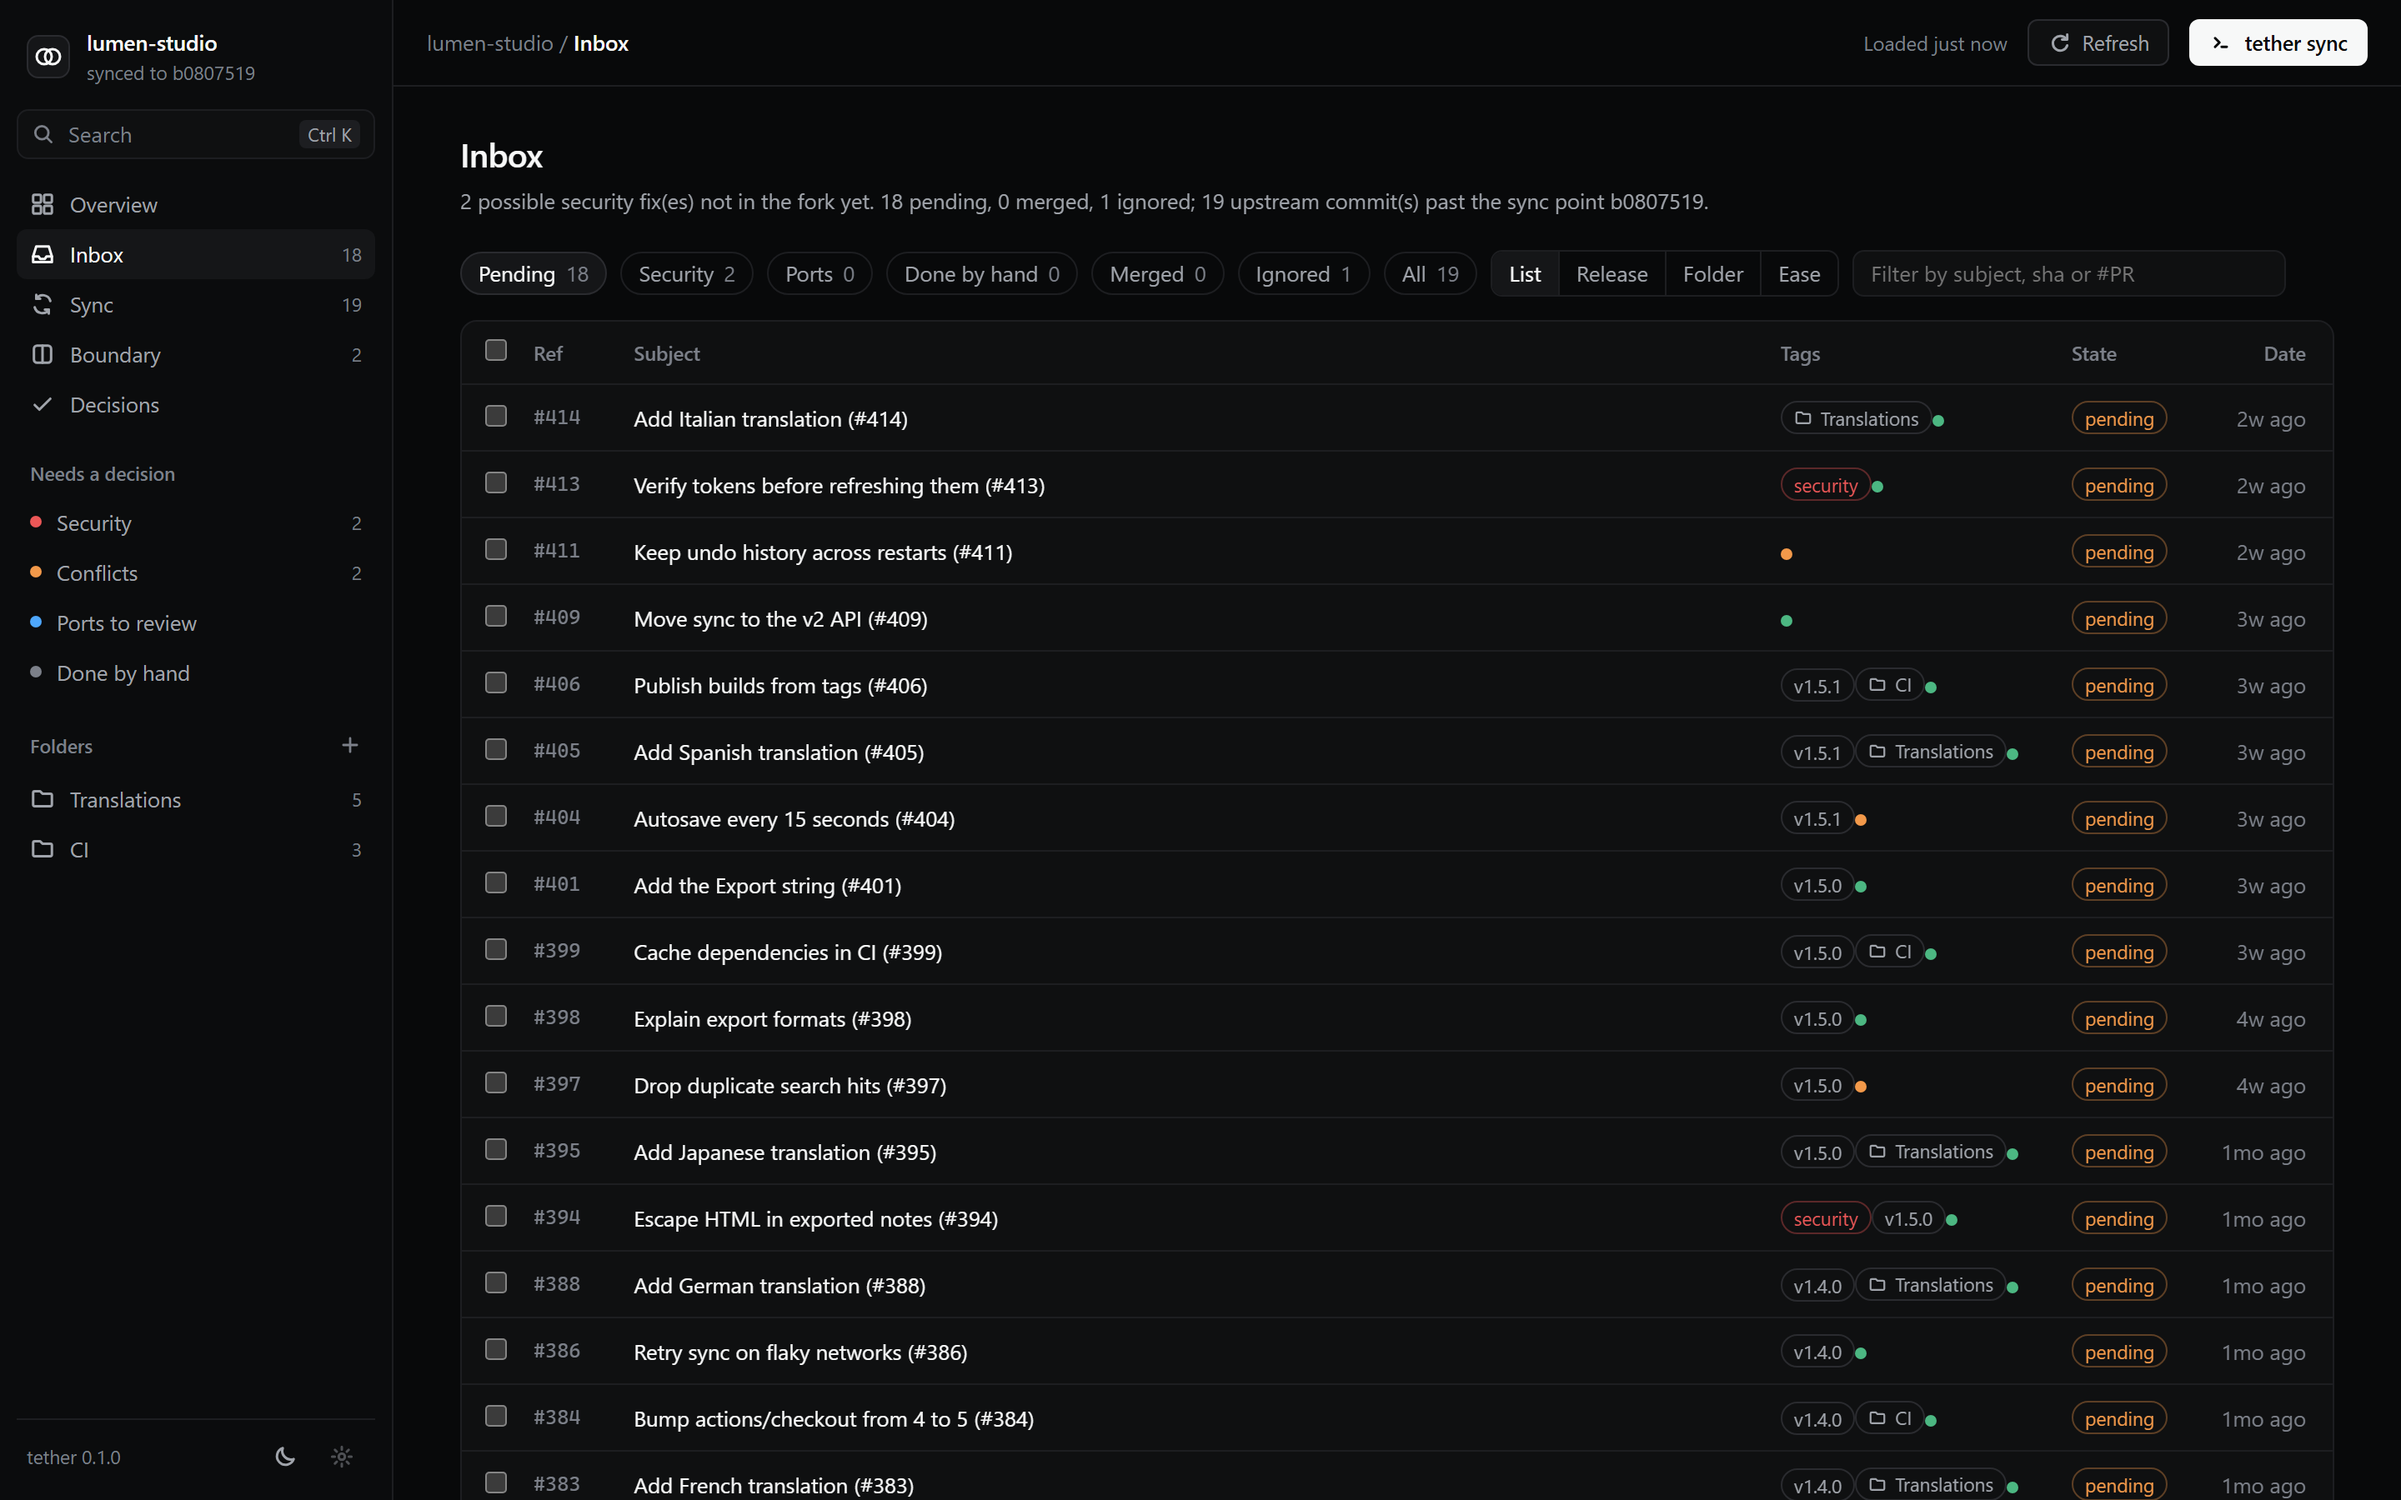
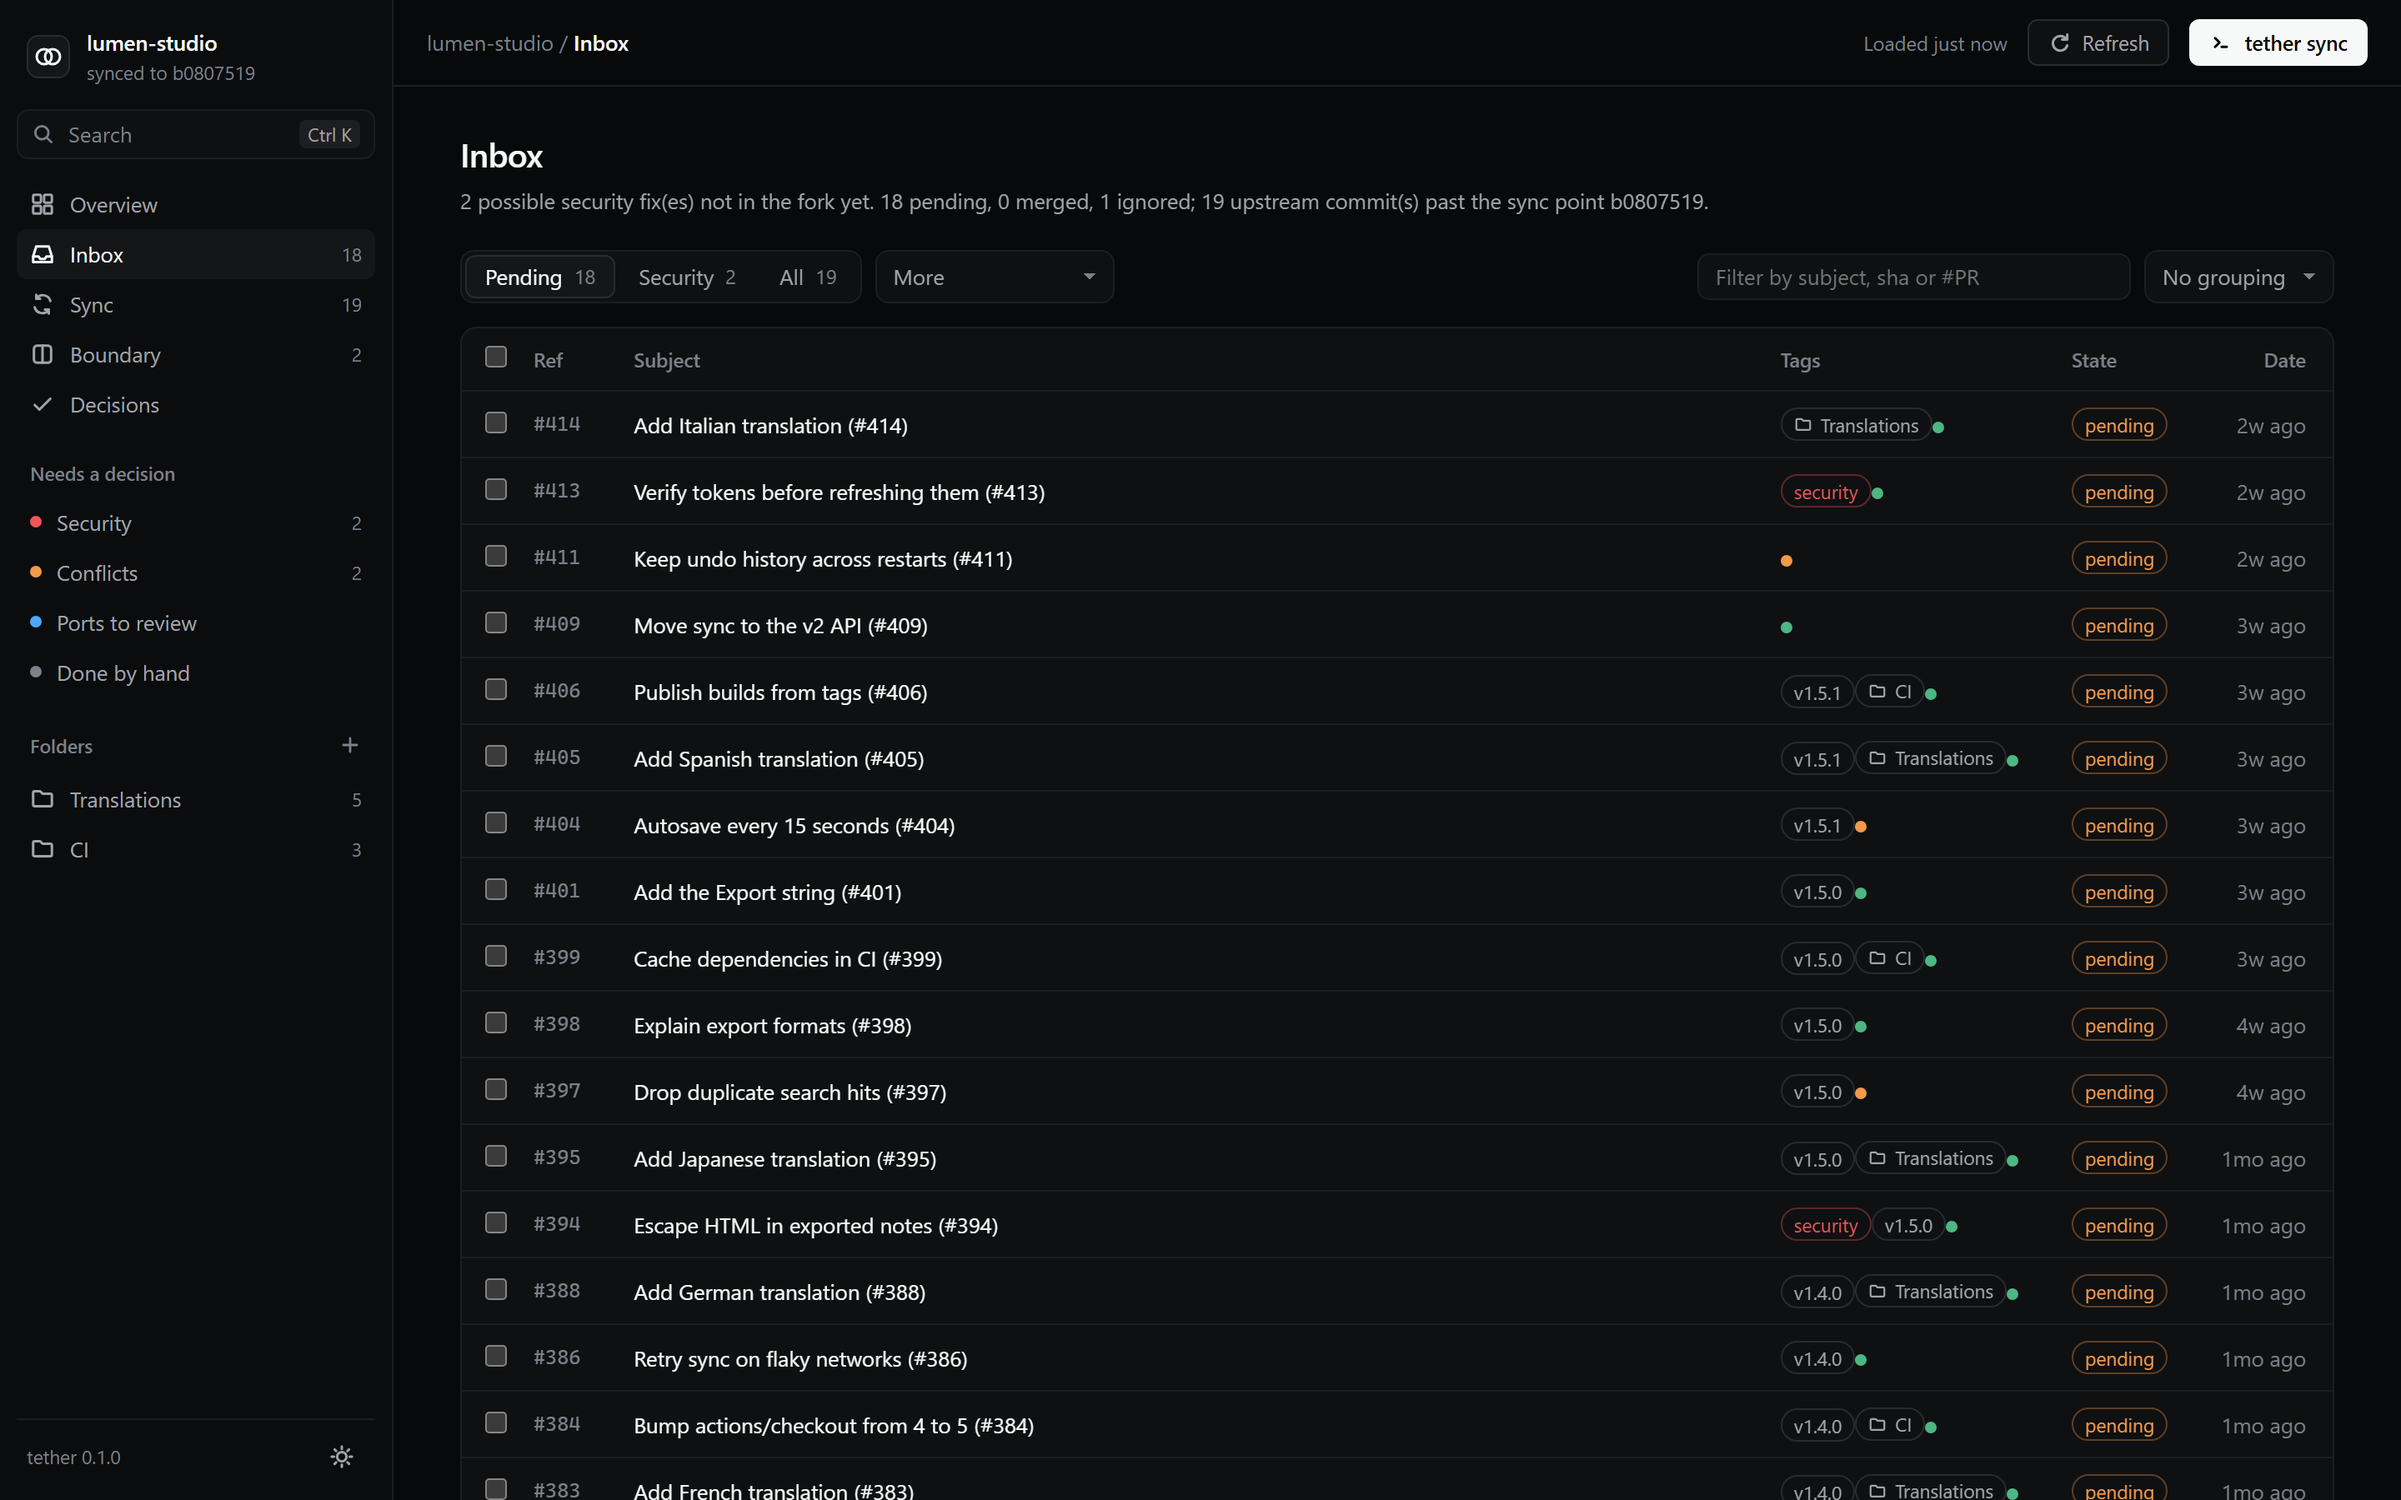
Calm the inbox toolbar and use one theme button
The inbox showed seven filter chips, four grouping buttons and a search box in one crowded row. It now has three tabs (Pending, Security, All), a More menu for the other lists, and a grouping menu beside the search.

The footer had a theme button and a disabled settings gear that looked like a sun. The gear is gone, and the theme button shows the mode it switches to.

diff --git a/src/ui/index.html b/src/ui/index.html
@@ -134,6 +134,14 @@ header .sp{flex:1}
 .chip{height:26px;padding:0 10px;border-radius:13px;border:1px solid var(--line);color:var(--tx2);display:inline-flex;align-items:center;gap:6px}
 .chip:hover{border-color:var(--line2);color:var(--tx)}
 .chip.on{background:var(--raise);border-color:var(--line2);color:var(--tx)}
+.tabs{display:flex;gap:2px;padding:2px;border:1px solid var(--line);border-radius:8px;background:var(--panel)}
+.tabs a{height:26px;padding:0 12px;border-radius:6px;color:var(--tx2);display:inline-flex;align-items:center;gap:7px}
+.tabs a:hover{color:var(--tx)}
+.tabs a.on{background:var(--raise);color:var(--tx);box-shadow:inset 0 0 0 1px var(--line2)}
+.tabs .c{color:var(--tx3);font-variant-numeric:tabular-nums;font-size:12px}
+.pick{height:32px;padding:0 28px 0 10px;border:1px solid var(--line);border-radius:8px;background:var(--panel);color:var(--tx2);font:inherit;cursor:pointer;appearance:none;background-image:linear-gradient(45deg,transparent 50%,var(--tx3) 50%),linear-gradient(135deg,var(--tx3) 50%,transparent 50%);background-position:calc(100% - 14px) 50%,calc(100% - 10px) 50%;background-size:4px 4px;background-repeat:no-repeat}
+.pick:hover,.pick.on{color:var(--tx);border-color:var(--line2)}
+.pick option{background:var(--panel);color:var(--tx)}
 .chip .c{color:var(--tx3);font-variant-numeric:tabular-nums}
 .filter{margin-left:auto;height:28px;width:260px;border:1px solid var(--line);border-radius:7px;background:var(--panel);color:var(--tx);padding:0 10px;font:inherit;outline:none}
 .filter:focus{border-color:var(--tx3)}
@@ -249,8 +257,7 @@ h2.sec{font-size:14px;font-weight:600;margin:0 0 4px;letter-spacing:-.01em}
   <nav id="folders"></nav>
   <div class="foot">
     <span id="ver">tether</span><span class="sp"></span>
-    <button class="icon-btn" id="themeBtn" title="Switch theme"><svg viewBox="0 0 16 16"><path d="M13.5 9.5A5.5 5.5 0 0 1 6.5 2.5a5.5 5.5 0 1 0 7 7z"/></svg></button>
-    <button class="icon-btn" disabled title="Settings: coming later"><svg viewBox="0 0 16 16"><circle cx="8" cy="8" r="2"/><path d="M8 1.8v1.7M8 12.5v1.7M1.8 8h1.7M12.5 8h1.7M3.6 3.6l1.2 1.2M11.2 11.2l1.2 1.2M3.6 12.4l1.2-1.2M11.2 4.8l1.2-1.2"/></svg></button>
+    <button class="icon-btn" id="themeBtn"></button>
   </div>
 </aside>
 <main>
@@ -278,7 +285,12 @@ let D={},loadedAt=0,inboxFilter="pending",query="";
 const savedTheme=localStorage.getItem("tether-theme");
 if(savedTheme)document.documentElement.dataset.theme=savedTheme;
 else if(matchMedia("(prefers-color-scheme: light)").matches)document.documentElement.dataset.theme="light";
-$("#themeBtn").onclick=()=>{const t=document.documentElement.dataset.theme==="dark"?"light":"dark";document.documentElement.dataset.theme=t;localStorage.setItem("tether-theme",t)};
+// One button: it shows the theme you would switch to.
+const SUN='<svg viewBox="0 0 16 16"><circle cx="8" cy="8" r="3"/><path d="M8 1.5v1.5M8 13v1.5M1.5 8H3M13 8h1.5M3.4 3.4l1 1M11.6 11.6l1 1M3.4 12.6l1-1M11.6 4.4l1-1"/></svg>';
+const MOON='<svg viewBox="0 0 16 16"><path d="M13.5 9.5A5.5 5.5 0 0 1 6.5 2.5a5.5 5.5 0 1 0 7 7z"/></svg>';
+function themeIcon(){const dark=document.documentElement.dataset.theme==="dark";const b=$("#themeBtn");b.innerHTML=dark?SUN:MOON;b.title=dark?"Switch to light mode":"Switch to dark mode"}
+themeIcon();
+$("#themeBtn").onclick=()=>{const t=document.documentElement.dataset.theme==="dark"?"light":"dark";document.documentElement.dataset.theme=t;localStorage.setItem("tether-theme",t);themeIcon()};
 if(/Mac/.test(navigator.platform))$("#kmod").textContent="⌘K";
 
 function ago(iso){
@@ -388,7 +400,10 @@ function route(keepScroll){
   if(err){v2.innerHTML=`<div class="card err">${esc(err.summary)}</div>`;return}
   const hadFocus=document.activeElement?.id==="q";
   v2.innerHTML={overview,inbox,sync,boundary,decisions}[view]();
-  if(view==="inbox"){const q=$("#q");q.value=query;q.oninput=()=>{query=q.value;renderInboxTable()};renderInboxTable();if(hadFocus)q.focus()}
+  if(view==="inbox"){
+    const more=$("#more");if(more)more.onchange=()=>{location.hash="#inbox/"+(more.value||"pending")};
+    $("#grp").onchange=e=>{groupBy=e.target.value;localStorage.setItem("tether-group",groupBy);route(true)};
+    const q=$("#q");q.value=query;q.oninput=()=>{query=q.value;renderInboxTable()};renderInboxTable();if(hadFocus)q.focus()}
   scroll.scrollTop=keepScroll?top:0;
 }
 addEventListener("hashchange",()=>route());
@@ -485,20 +500,23 @@ function overview(){
 // inbox: filters, grouping, selection, folders
 let groupBy=localStorage.getItem("tether-group")||"none";
 const selected=new Set();
+const MORE=[["ports","Ports to review"],["applied","Done by hand"],["merged","Merged"],["ignored","Ignored"]];
+const GROUPS=[["none","No grouping"],["release","By release"],["folder","By folder"],["ease","By ease"]];
 const EASE={clean:["d-ok","Clean","touches nothing you changed"],owned:["d-ok","Owned","only your owned areas; resolves itself"],overlap:["d-info","Overlaps","touches files you changed; merges cleanly"],conflict:["d-warn","Conflicts","touches a file the sync conflicts on"]};
 function inbox(){
   const all=items(),f=facts();
   const c={pending:f.pend.length,security:f.security.length,ports:f.ports.length,applied:f.applied.length,merged:all.filter(i=>i.state==="merged").length,ignored:all.filter(i=>i.state==="ignored").length,all:all.length};
-  const chip=(k,l)=>`<a class="chip ${inboxFilter===k?"on":""}" href="#inbox/${k}">${l}<span class="c">${c[k]}</span></a>`;
+  const tab=(k,l)=>`<a class="${inboxFilter===k?"on":""}" href="#inbox/${k}">${l}<span class="c">${c[k]}</span></a>`;
   const folder=inboxFilter.startsWith("folder:")?inboxFilter.slice(7):null;
-  const seg=(k,l)=>`<button data-group="${k}" class="${groupBy===k?"on":""}">${l}</button>`;
   const head=folder
     ?`<h1 style="display:flex;align-items:center;gap:10px">${esc(folder)}<span class="sp" style="flex:1"></span><button class="btn" data-frename="${esc(folder)}">Rename</button><button class="btn" data-fdelete="${esc(folder)}">Delete folder</button></h1><p class="lede">Your folder. It only groups commits for reading; deleting it leaves the commits as they are.</p>`
     :`<h1>Inbox</h1><p class="lede">${esc(D.inbox.summary)}</p>`;
   return `${head}
-  <div class="toolbar">${folder?`<a class="chip" href="#inbox">← All pending</a>`:chip("pending","Pending")+chip("security","Security")+chip("ports","Ports")+chip("applied","Done by hand")+chip("merged","Merged")+chip("ignored","Ignored")+chip("all","All")}
-  <span class="seg" title="Group rows">${seg("none","List")}${seg("release","Release")}${seg("folder","Folder")}${seg("ease","Ease")}</span>
-  <input class="filter" id="q" placeholder="Filter by subject, sha or #PR" autocomplete="off" style="margin-left:0"></div>
+  <div class="toolbar">${folder?`<a class="chip" href="#inbox">← All pending</a>`:`<nav class="tabs">${tab("pending","Pending")}${tab("security","Security")}${tab("all","All")}</nav>
+    <select class="pick ${MORE.some(([k])=>k===inboxFilter)?"on":""}" id="more" title="Other lists"><option value="">More</option>${MORE.map(([k,l])=>`<option value="${k}" ${inboxFilter===k?"selected":""}>${l} (${c[k]})</option>`).join("")}</select>`}
+    <span class="sp" style="flex:1"></span>
+    <input class="filter" id="q" placeholder="Filter by subject, sha or #PR" autocomplete="off" style="margin-left:0">
+    <select class="pick" id="grp" title="Group rows">${GROUPS.map(([k,l])=>`<option value="${k}" ${groupBy===k?"selected":""}>${l}</option>`).join("")}</select></div>
   <div id="selbar"></div>
   <div class="card panel"><table><thead><tr><th class="ck"><input type="checkbox" id="ckall" title="Select all shown"></th><th>Ref</th><th>Subject</th><th>Tags</th><th>State</th><th class="num">Date</th></tr></thead><tbody id="tbody"></tbody></table><div id="tempty"></div></div>`;
 }
